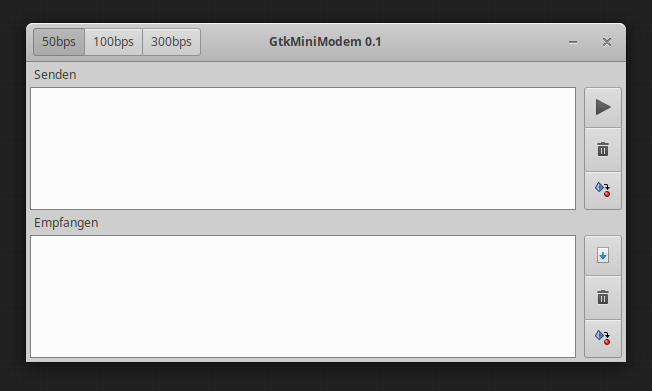
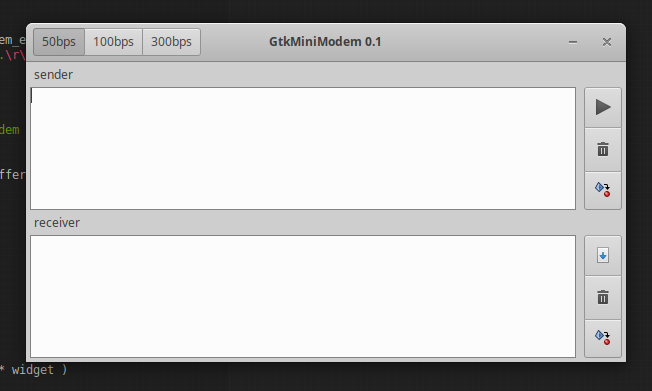
update picture and readme.md

diff --git a/README.md b/README.md
@@ -2,6 +2,8 @@
 
 A simple GTK+ frontend for minimodem.
 
+![GtkMinimodem](https://github.com/sharandac/GtkMiniModem/blob/master/data/GtkMinimodem.png)
+
 ## Installation
 
 Install gnome-builder and minimodem with
